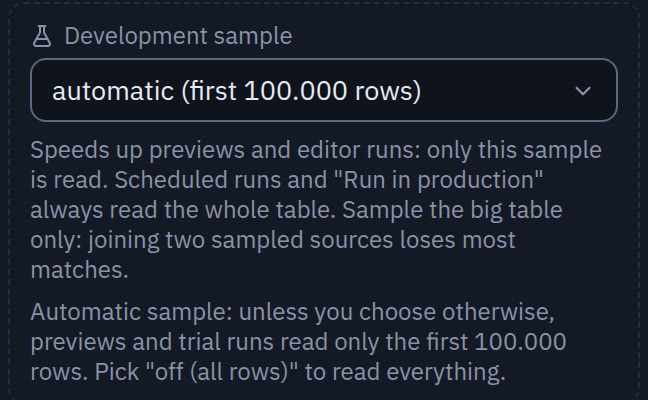
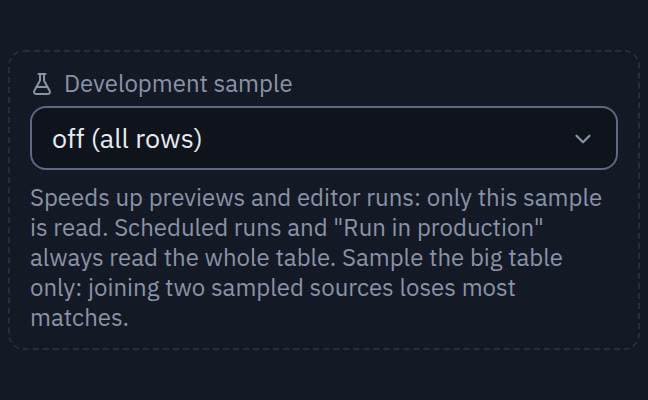
fix(website): the sample picture shows sampling off — the whole table by default
The governance section's picture now shows the Development sample setting at its
default, «off (all rows)», and the copy says sampling is optional and off unless
turned on; scheduled runs always read everything.

Changed region(s): [[0.0309, 0.15, 0.9568, 0.96], [0.0309, 0.06, 0.9259, 0.15], [0.9259, 0.15, 0.9568, 0.18]]

diff --git a/website/app/locales/en.ts b/website/app/locales/en.ts
@@ -145,9 +145,9 @@ export default {
       rbac: { name: 'Inherited permissions', line: 'Users, groups and nested projects with view, edit, manage and connect.' },
       audit: { name: 'An audit log that answers', line: 'Who signed in, who ran what, which data was downloaded. Append-only, and it can be forwarded to Splunk.' },
       sql: { name: 'Free-form SQL, contained', line: 'A SQL node reads its own input. On ClickHouse, chDB and BigQuery the query is parsed and any other table is refused; DuckDB and Polars run it in a sandbox that sees only the input.' },
-      sample: { name: 'The whole table, every time', line: 'Previews and runs work on the full data. A development sample is optional — switch it on where every read is billed; scheduled runs always read everything.' },
+      sample: { name: 'The whole table, by default', line: 'Previews and runs read the full table: sampling is off unless you turn it on. A development sample is optional, for sources where every read is billed; scheduled runs always read everything.' },
     },
-    sampleAlt: 'The optional Development sample setting of a source node, here switched to “automatic (first 100.000 rows)”, with the note that scheduled runs and Run in production always read the whole table.',
+    sampleAlt: 'The Development sample setting of a source node at its default, “off (all rows)”: previews read the whole table. The note under it says a sample is only for speeding up previews, and that scheduled runs and Run in production always read everything.',
   },
 
   connect: {
